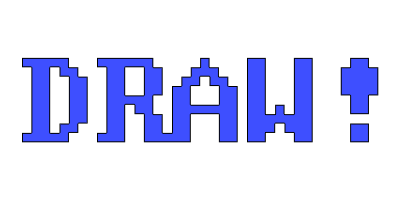
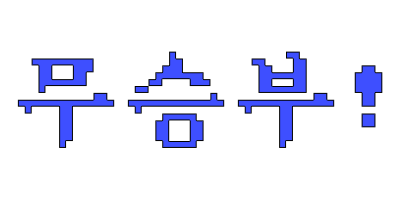
red_score, blue_score 중복 사용 안 되게 수정

Changed region(s): [[0.03, 0.24, 0.96, 0.75]]

diff --git a/Videomanager.py b/Videomanager.py
@@ -14,6 +14,9 @@ class Video_Manager:
         self.is_answer_handled_red = False
         self.is_answer_handled_blue = False
         self.game_finish = False
+        self.win_red = False
+        self.win_blue = False
+        self.all_draw = False
 
         # drawing_color
         self.blue_lower = (100, 150, 0)
@@ -346,6 +349,14 @@ class Video_Manager:
         self.blue_draw = cv2.imread('data/text/blue_draw.png', -1)
         # self.blue_draw = cv2.resize(self.blue_draw, (500, 100), -1)
 
+        self.peace_r = cv2.imread('data/text/peace_r.png', -1)
+        self.peace_r = cv2.resize(self.peace_r, (200, 200), -1)
+        self.peace_l = cv2.imread('data/text/peace_l.png', -1)
+        self.peace_l = cv2.resize(self.peace_l, (200, 200), -1)
+
+        self.clap_r = cv2.imread('data/text/clap_r.png', -1)
+        self.clap_l = cv2.imread('data/text/clap_l.png', -1)
+
     def load_video(self):
         # load_video
         # vidcap = cv2.VideoCapture(cv2.CAP_DSHOW+1)
@@ -392,13 +403,19 @@ class Video_Manager:
                                   is_answer_handled_blue)
 
                 # 점수 표기
-                frame = self.PlayerGameStats(frame, red_score, blue_score)
+                frame = self.PlayerGameStats(frame, red_score, blue_score, is_one_player=False)
 
                 self.frame_num = self.frame_num + 1
                 if self.frame_num == 60:
                     self.game_finish = True
+                if red_score > blue_score:
+                    self.win_red = True
+                elif red_score < blue_score:
+                    self.win_blue = True
+                elif red_score == blue_score:
+                    self.all_draw = True
             else:
-                frame = self.Winner_effect(frame, red_score, blue_score, is_one_player=False)
+                frame = self.Winner_effect(frame, self.win_red, self.win_blue, self.all_draw, is_one_player=False)
 
             cv2.imshow('Rhythm Box Slaughter', frame)
 
@@ -475,7 +492,7 @@ class Video_Manager:
             display_areas.append((area1, area2))
         return display_areas
 
-    def random_box(self, level, frame, is_one_player=True):
+    def random_box(self, level, frame, is_one_player=False):
         # img = self.load_data()[0]
         img = frame
         areas = self.rhythm_box_display_area(level, frame)
@@ -543,33 +560,42 @@ class Video_Manager:
             cv2.rectangle(frame, (coordinate_red[0][0], coordinate_red[0][1]),
                           (coordinate_red[0][2], coordinate_red[0][3]), self.green_color, 3)
 
-    def Winner_effect(self, frame, red_score, blue_score, is_one_player=False):
+    def Winner_effect(self, frame, win_red, win_blue, all_draw, is_one_player=False):
         if not is_one_player:
             img = frame
             img = cv2.line(img, (self.img_width // 2, 0), (self.img_width // 2, self.img_height), self.white_color, 2)
-            if red_score > blue_score:
+            if win_red:
                 # red 영역 화면 출력
                 frame = cvzone.overlayPNG(frame, self.red_win, [(1920 // 4) - 200, (1080 // 2) - 100])
+                frame = cvzone.overlayPNG(frame, self.clap_l, [(1920 // 4) - 400, (1080 // 2) - 100])
                 # blue 영역 화면 출력
                 frame = cvzone.overlayPNG(frame, self.blue_lose, [(1920 // 2) + 200, (1080 // 2) - 100])
-            elif red_score < blue_score:
+            elif win_blue:
                 # red 영역 화면 출력
                 frame = cvzone.overlayPNG(frame, self.red_lose, [(1920 // 4) - 200, (1080 // 2) - 100])
                 # blue 영역 화면 출력
                 frame = cvzone.overlayPNG(frame, self.blue_win, [(1920 // 2) + 200, (1080 // 2) - 100])
-            elif red_score == blue_score:
+                frame = cvzone.overlayPNG(frame, self.clap_r, [(1920 // 4) + 600, (1080 // 2) - 100])
+            elif all_draw:
                 # red 영역 화면 출력
                 frame = cvzone.overlayPNG(frame, self.red_draw, [(1920 // 4) - 200, (1080 // 2) - 100])
+                frame = cvzone.overlayPNG(frame, self.peace_l, [self.img_width // 2-300, self.img_height // 2 - 200])
                 # blue 영역 화면 출력
                 frame = cvzone.overlayPNG(frame, self.blue_draw, [(1920 // 2) + 200, (1080 // 2) - 100])
-        else:
-            # 화면 중앙에 출력
-            cv2.putText(frame, self.winGameText, (self.img_width - 80, 100), cv2.FONT_HERSHEY_TRIPLEX, 2, (0, 0, 0),
-                        cv2.LINE_8)
-
+                frame = cvzone.overlayPNG(frame, self.peace_r, [self.img_width // 2+100, self.img_height // 2 - 200])
+        # else:
+        #     # 0-19:Poor
+        #     if 0 < self.sum_score < 20:
+        #         frame = cvzone.overlayPNG(frame, self.poor, [self.img_width // 2, self.img_height // 2])
+        #     # 20-29:Not Bad
+        #     if 20 < self.sum_score < 29:
+        #         frame = cvzone.overlayPNG(frame, self.not_bad, [self.img_width // 2, self.img_height // 2])
+            # 30-49:Good
+            # 50-59:Excellent
+            # 60:Splendid
         return frame
 
-    def PlayerGameStats(self, frame, red_score, blue_score):
+    def PlayerGameStats(self, frame, red_score, blue_score, is_one_player=False):
         if red_score == 0:
             # 왼쪽 숫자
             frame = cvzone.overlayPNG(frame, self.emtpy_gage, self.gage_loc)
